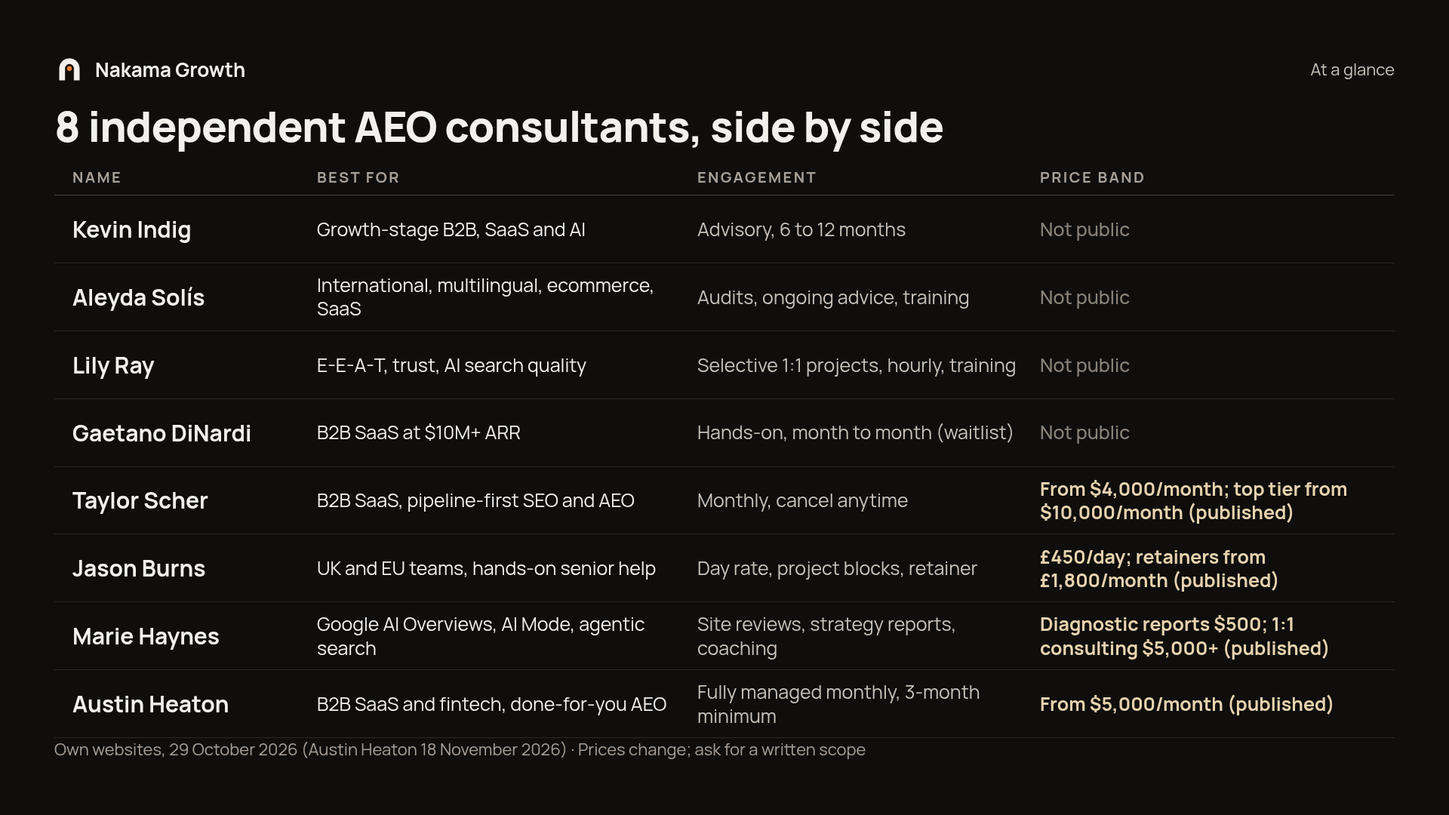
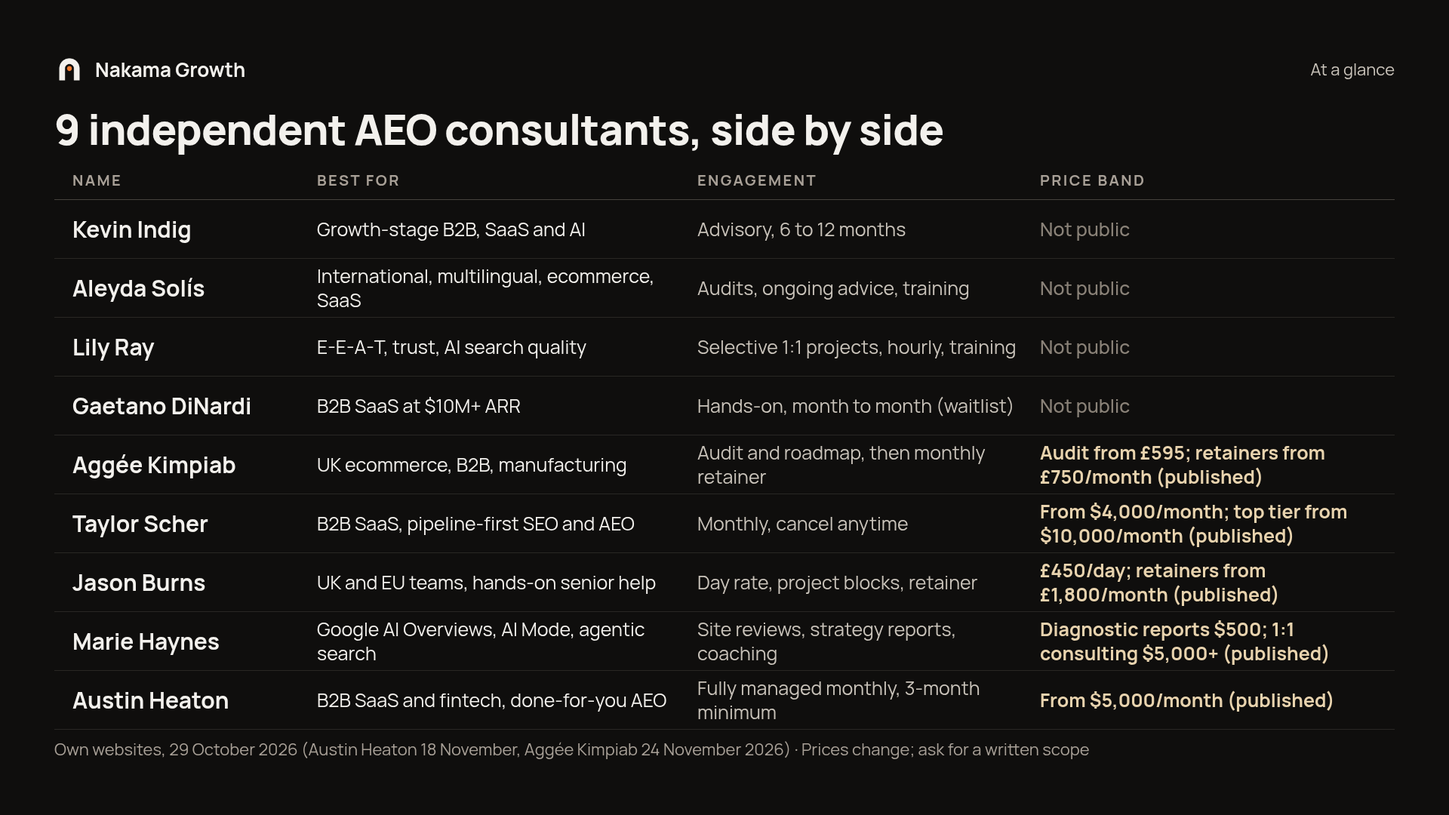
Preview: Aggée Kimpiab at #5 on /journal/best-aeo-consultants (#125)
* Add Aggée Kimpiab at #5 on best AEO consultants (preview)

* Journal: unordered AEO consultant list and Aggée source fix

Mark the best-aeo-consultants ItemList as unordered, note that the numbers are for navigation, and say Nakama Growth and the firm box are not listed as independent consultants. Replace Aggée Kimpiab's since-2019 claim and cite his DTC ecommerce SEO case study for the Lawton Tubes figures.

* Journal: point Aggée case-study links at the right pages

The Lawton Tubes 64% figure cites the manufacturing SEO case study. The outdoor brand results, including 12 ChatGPT orders, cite the DTC ecommerce case study.

* Journal: tighten Aggée Kimpiab's SEO experience line

Replace the retainer-client sentence in bodyHtml and sections with the shorter agency-side wording.

---------

diff --git a/app/journal/best-aeo-consultants.ts b/app/journal/best-aeo-consultants.ts
@@ -12,7 +12,7 @@ import type {Article} from './articles';
  */
 export const BEST_AEO_CONSULTANTS_PUBLISHED_AT = '2026-10-29T09:00:00+05:30';
 const PUBLISHED_AT = BEST_AEO_CONSULTANTS_PUBLISHED_AT;
-const MODIFIED_AT = '2026-11-18T19:40:00+05:30';
+const MODIFIED_AT = '2026-11-24T18:00:00+05:30';
 const PREVIEW = false;
 
 const MONTHS = ['Jan', 'Feb', 'Mar', 'Apr', 'May', 'Jun', 'Jul', 'Aug', 'Sep', 'Oct', 'Nov', 'Dec'];
@@ -60,8 +60,8 @@ const articleLd = {
    "@type": "ItemList",
    "@id": `${CANONICAL}#itemlist`,
    "name": TITLE,
-   "itemListOrder": "https://schema.org/ItemListOrderAscending",
-   "numberOfItems": 8,
+   "itemListOrder": "https://schema.org/ItemListUnordered",
+   "numberOfItems": 9,
    "isPartOf": {
     "@id": `${CANONICAL}#webpage`
    },
@@ -113,8 +113,19 @@ const articleLd = {
     {
      "@type": "ListItem",
      "position": 5,
+     "name": "Aggée Kimpiab",
+     "url": `${CANONICAL}#5-aggee-kimpiab-best-for-hands-on-seo-and-aeo-in-ecommerce-b2b-and-manufacturing`,
+     "item": {
+      "@type": "Person",
+      "name": "Aggée Kimpiab",
+      "url": "https://aggeewrites.com/"
+     }
+    },
+    {
+     "@type": "ListItem",
+     "position": 6,
      "name": "Taylor Scher",
-     "url": `${CANONICAL}#5-taylor-scher-best-for-transparent-saas-retainers`,
+     "url": `${CANONICAL}#6-taylor-scher-best-for-transparent-saas-retainers`,
      "item": {
       "@type": "Person",
       "name": "Taylor Scher",
@@ -123,9 +134,9 @@ const articleLd = {
     },
     {
      "@type": "ListItem",
-     "position": 6,
+     "position": 7,
      "name": "Jason Burns",
-     "url": `${CANONICAL}#6-jason-burns-best-for-hands-on-senior-help-at-a-day-rate`,
+     "url": `${CANONICAL}#7-jason-burns-best-for-hands-on-senior-help-at-a-day-rate`,
      "item": {
       "@type": "Person",
       "name": "Jason Burns",
@@ -134,9 +145,9 @@ const articleLd = {
     },
     {
      "@type": "ListItem",
-     "position": 7,
+     "position": 8,
      "name": "Marie Haynes",
-     "url": `${CANONICAL}#7-marie-haynes-best-for-google-ai-overviews-and-agentic-search`,
+     "url": `${CANONICAL}#8-marie-haynes-best-for-google-ai-overviews-and-agentic-search`,
      "item": {
       "@type": "Person",
       "name": "Marie Haynes",
@@ -145,9 +156,9 @@ const articleLd = {
     },
     {
      "@type": "ListItem",
-     "position": 8,
+     "position": 9,
      "name": "Austin Heaton",
-     "url": `${CANONICAL}#8-austin-heaton-best-for-done-for-you-aeo-in-b2b-saas-and-fintech`,
+     "url": `${CANONICAL}#9-austin-heaton-best-for-done-for-you-aeo-in-b2b-saas-and-fintech`,
      "item": {
       "@type": "Person",
       "name": "Austin Heaton",
@@ -263,7 +274,7 @@ const articleLd = {
      "name": "Who are the best AEO consultants in 2026?",
      "acceptedAnswer": {
       "@type": "Answer",
-      "text": "Our 2026 shortlist is Kevin Indig, Aleyda Solís, Lily Ray, Gaetano DiNardi, Taylor Scher, Jason Burns, Marie Haynes and Austin Heaton. See the comparison table in this guide for type, best fit, engagement and published pricing."
+      "text": "Our 2026 shortlist is Kevin Indig, Aleyda Solís, Lily Ray, Gaetano DiNardi, Aggée Kimpiab, Taylor Scher, Jason Burns, Marie Haynes and Austin Heaton. See the comparison table in this guide for type, best fit, engagement and published pricing."
      }
     },
     {
@@ -319,28 +330,29 @@ const bodyHtml = `<nav aria-label="Breadcrumb" class="article-breadcrumb"><ol st
 <p>By <a href="https://www.nakama.in/authors/yash-kumar" rel="author">Yash Kumar</a>, Co-founder and CEO, Nakama Growth</p>
 <figure><picture><source srcset="/journal/best-aeo-consultants/best-aeo-consultants-cover.webp" type="image/webp"><img src="/journal/best-aeo-consultants/best-aeo-consultants-cover.png" alt="${COVER_ALT}" width="1920" height="1080" fetchpriority="high" decoding="async"></picture></figure>
 <h2 id="quick-answer-who-are-the-best-aeo-consultants-in-2026">Quick answer: who are the best AEO consultants in 2026?</h2>
-<p>The best AEO consultants in 2026 are Kevin Indig (growth-stage B2B and AI companies), Aleyda Solís (international, ecommerce and SaaS), Lily Ray (trust, E-E-A-T and AI search quality), Gaetano DiNardi (B2B SaaS demand capture), Taylor Scher (transparent SaaS retainers), Jason Burns (hands-on UK day-rate work), Marie Haynes (Google AI Overviews and agentic search diagnostics) and Austin Heaton (done-for-you AEO for B2B SaaS and fintech).</p>
+<p>The best AEO consultants in 2026 are Kevin Indig (growth-stage B2B and AI companies), Aleyda Solís (international, ecommerce and SaaS), Lily Ray (trust, E-E-A-T and AI search quality), Gaetano DiNardi (B2B SaaS demand capture), Aggée Kimpiab (hands-on SEO and AEO for UK ecommerce, B2B and manufacturing), Taylor Scher (transparent SaaS retainers), Jason Burns (hands-on UK day-rate work), Marie Haynes (Google AI Overviews and agentic search diagnostics) and Austin Heaton (done-for-you AEO for B2B SaaS and fintech).</p>
 <p>An AEO consultant (answer engine optimization consultant) is a senior individual who diagnoses why AI answer engines do or do not mention and cite your brand, then gives your team a prioritised plan. An agency usually does the execution as well.</p>
 <p>Published independent rates in this guide start at £450 a day for hands-on work, $500 for a diagnostic report, and from $4,000 a month for a retainer.</p>
-<p><strong>How we picked:</strong> we checked each person's own website between 20 and 29 Oct 2026 (Austin Heaton on 18 Nov 2026), plus at least one independent source during research (not every source is linked in the entry). We kept only people with a public consulting, advisory or fractional offer. Founders who lead a firm are moved to a separate box and labelled &quot;Firm principal&quot;.</p>
-<p>Nakama Growth is an AEO agency; we are not ranked as an independent consultant in this list.</p>
-<nav class="toc" aria-labelledby="toc-h"><p class="toc-head" id="toc-h">On this page <span>14 sections</span></p><ol><li><a href="#quick-answer-who-are-the-best-aeo-consultants-in-2026">Quick answer: who are the best AEO consultants in 2026?</a></li><li><a href="#what-is-an-aeo-consultant">What is an AEO consultant?</a></li><li><a href="#how-do-the-best-aeo-consultants-compare">How do the best AEO consultants compare?</a></li><li><a href="#how-did-we-pick-these-aeo-consultants">How did we pick these AEO consultants?</a></li><li><a href="#the-8-best-independent-aeo-consultants-in-2026">The 8 best independent AEO consultants in 2026</a></li><li><a href="#what-does-an-aeo-consultant-actually-do">What does an AEO consultant actually do?</a></li><li><a href="#aeo-consultant-vs-agency-which-should-you-hire">AEO consultant vs agency: which should you hire?</a></li><li><a href="#when-does-a-firm-beat-an-independent-consultant">When does a firm beat an independent consultant?</a></li><li><a href="#how-much-do-aeo-consultants-cost-in-2026">How much do AEO consultants cost in 2026?</a></li><li><a href="#which-aeo-consultant-is-best-for-your-situation">Which AEO consultant is best for your situation?</a></li><li><a href="#how-do-you-vet-an-aeo-consultant">How do you vet an AEO consultant?</a></li><li><a href="#what-are-the-red-flags-when-hiring-an-aeo-consultant">What are the red flags when hiring an AEO consultant?</a></li><li><a href="#frequently-asked-questions">Frequently asked questions</a></li><li><a href="#final-take">Final take</a></li></ol></nav>
+<p><strong>How we picked:</strong> we checked each person's own website between 20 and 29 Oct 2026 (Austin Heaton on 18 Nov 2026, Aggée Kimpiab on 24 Nov 2026), plus at least one independent source during research (not every source is linked in the entry). We kept only people with a public consulting, advisory or fractional offer. Founders who lead a firm are moved to a separate box and labelled &quot;Firm principal&quot;.</p>
+<p>Nakama Growth is an AEO agency; we are not listed as an independent consultant in this list.</p>
+<nav class="toc" aria-labelledby="toc-h"><p class="toc-head" id="toc-h">On this page <span>14 sections</span></p><ol><li><a href="#quick-answer-who-are-the-best-aeo-consultants-in-2026">Quick answer: who are the best AEO consultants in 2026?</a></li><li><a href="#what-is-an-aeo-consultant">What is an AEO consultant?</a></li><li><a href="#how-do-the-best-aeo-consultants-compare">How do the best AEO consultants compare?</a></li><li><a href="#how-did-we-pick-these-aeo-consultants">How did we pick these AEO consultants?</a></li><li><a href="#the-9-best-independent-aeo-consultants-in-2026">The 9 best independent AEO consultants in 2026</a></li><li><a href="#what-does-an-aeo-consultant-actually-do">What does an AEO consultant actually do?</a></li><li><a href="#aeo-consultant-vs-agency-which-should-you-hire">AEO consultant vs agency: which should you hire?</a></li><li><a href="#when-does-a-firm-beat-an-independent-consultant">When does a firm beat an independent consultant?</a></li><li><a href="#how-much-do-aeo-consultants-cost-in-2026">How much do AEO consultants cost in 2026?</a></li><li><a href="#which-aeo-consultant-is-best-for-your-situation">Which AEO consultant is best for your situation?</a></li><li><a href="#how-do-you-vet-an-aeo-consultant">How do you vet an AEO consultant?</a></li><li><a href="#what-are-the-red-flags-when-hiring-an-aeo-consultant">What are the red flags when hiring an AEO consultant?</a></li><li><a href="#frequently-asked-questions">Frequently asked questions</a></li><li><a href="#final-take">Final take</a></li></ol></nav>
 <h2 id="what-is-an-aeo-consultant">What is an AEO consultant?</h2>
 <p>An AEO (answer engine optimization) consultant is a specialist who helps a brand get mentioned, recommended and cited in AI-generated answers from ChatGPT, Perplexity, Gemini, Claude and Google AI Overviews. They audit how engines describe you, find the sources those engines trust, and turn that into a roadmap your team or agency can ship.</p>
 <p>The key difference from an agency is ownership. A consultant owns the diagnosis and the plan. Your team usually owns the doing.</p>
 <p>Some consultants also call this work GEO (generative engine optimization), LLM SEO or AI search optimization, so you will see the same person described as a GEO consultant, a generative engine optimization consultant, an LLM SEO consultant or an AI visibility consultant. For buyers, the labels describe the same goal: being part of the answer.</p>
 <h2 id="how-do-the-best-aeo-consultants-compare">How do the best AEO consultants compare?</h2>
-<p>The eight best AEO consultants compare most clearly on specialty, engagement type and pricing transparency. Kevin Indig and Lily Ray suit advisory and trust work, Aleyda Solís suits international brands, Gaetano DiNardi suits B2B SaaS, and Austin Heaton suits B2B SaaS and fintech teams that want the work done for them. Taylor Scher, Jason Burns, Marie Haynes and Austin Heaton publish rates; the other four quote per scope after a scoping call.</p>
-<figure><picture><source srcset="/journal/best-aeo-consultants/best-aeo-consultants-compare.webp" type="image/webp"><img src="/journal/best-aeo-consultants/best-aeo-consultants-compare.png" alt="Table of 8 independent AEO consultants with best fit, engagement type and price band, from their own websites on 29 October and 18 November 2026" width="1920" height="1080" loading="lazy" decoding="async"></picture></figure>
-<div class="article-table"><table><thead><tr><th scope="col">Name</th><th scope="col">Type</th><th scope="col">Best for</th><th scope="col">Engagement</th><th scope="col">Notable proof</th><th scope="col">Price band</th></tr></thead><tbody><tr><td>Kevin Indig</td><td>Independent</td><td>Growth-stage B2B, SaaS and AI companies</td><td>Advisory, 6 to 12 months</td><td>Client testimonials from Ramp and Nextdoor on his advisory page</td><td>Not public</td></tr><tr><td>Aleyda Solís (Orainti)</td><td>Independent (boutique consultancy)</td><td>International, multilingual, ecommerce and SaaS</td><td>Audits, ongoing advice, training</td><td>Founded Orainti in 2014; runs LearningAIsearch.com</td><td>Not public</td></tr><tr><td>Lily Ray (Algorythmic)</td><td>Independent (also VP at Amsive)</td><td>E-E-A-T, trust, AI search quality</td><td>Selective 1:1 projects, hourly, training</td><td>Runs Algorythmic alongside her VP role at Amsive</td><td>Not public</td></tr><tr><td>Gaetano DiNardi (Marketing Advice)</td><td>Independent</td><td>B2B SaaS at $10M+ ARR</td><td>Hands-on, month to month (waitlist)</td><td>Clients include Cognism and Aura</td><td>Not public</td></tr><tr><td>Taylor Scher</td><td>Independent</td><td>B2B SaaS wanting pipeline-first SEO and AEO</td><td>Monthly, cancel anytime</td><td>Public SaaS case studies on his site</td><td>From $4,000/month; top tier from $10,000/month (published)</td></tr><tr><td>Jason Burns</td><td>Independent</td><td>UK and EU teams wanting hands-on senior help</td><td>Day rate, project blocks, retainer</td><td>Founded SEO Moves; past work with 3M, BlackRock, Unilever, E.ON</td><td>£450/day; retainers from £1,800/month (published)</td></tr><tr><td>Marie Haynes</td><td>Independent</td><td>Google AI Overviews, AI Mode, agentic search</td><td>Site reviews, strategy reports, coaching</td><td>Author of SEO in the Gemini Era</td><td>Diagnostic reports $500; 1:1 consulting $5,000+ (published)</td></tr><tr><td>Austin Heaton</td><td>Independent</td><td>B2B SaaS and fintech wanting done-for-you AEO</td><td>Fully managed monthly, 3-month minimum</td><td>Named case studies for Lumanu and Riseworks on his site</td><td>From $5,000/month (published)</td></tr></tbody></table></div>
+<p>The nine best AEO consultants compare most clearly on specialty, engagement type and pricing transparency. Kevin Indig and Lily Ray suit advisory and trust work, Aleyda Solís suits international brands, Gaetano DiNardi suits B2B SaaS, Aggée Kimpiab suits UK ecommerce, B2B and manufacturing brands, and Austin Heaton suits B2B SaaS and fintech teams that want the work done for them. Aggée Kimpiab, Taylor Scher, Jason Burns, Marie Haynes and Austin Heaton publish rates; the other four quote per scope after a scoping call.</p>
+<figure><picture><source srcset="/journal/best-aeo-consultants/best-aeo-consultants-compare.webp" type="image/webp"><img src="/journal/best-aeo-consultants/best-aeo-consultants-compare.png" alt="Table of 9 independent AEO consultants with best fit, engagement type and price band, from their own websites on 29 October, 18 November and 24 November 2026" width="1920" height="1080" loading="lazy" decoding="async"></picture></figure>
+<div class="article-table"><table><thead><tr><th scope="col">Name</th><th scope="col">Type</th><th scope="col">Best for</th><th scope="col">Engagement</th><th scope="col">Notable proof</th><th scope="col">Price band</th></tr></thead><tbody><tr><td>Kevin Indig</td><td>Independent</td><td>Growth-stage B2B, SaaS and AI companies</td><td>Advisory, 6 to 12 months</td><td>Client testimonials from Ramp and Nextdoor on his advisory page</td><td>Not public</td></tr><tr><td>Aleyda Solís (Orainti)</td><td>Independent (boutique consultancy)</td><td>International, multilingual, ecommerce and SaaS</td><td>Audits, ongoing advice, training</td><td>Founded Orainti in 2014; runs LearningAIsearch.com</td><td>Not public</td></tr><tr><td>Lily Ray (Algorythmic)</td><td>Independent (also VP at Amsive)</td><td>E-E-A-T, trust, AI search quality</td><td>Selective 1:1 projects, hourly, training</td><td>Runs Algorythmic alongside her VP role at Amsive</td><td>Not public</td></tr><tr><td>Gaetano DiNardi (Marketing Advice)</td><td>Independent</td><td>B2B SaaS at $10M+ ARR</td><td>Hands-on, month to month (waitlist)</td><td>Clients include Cognism and Aura</td><td>Not public</td></tr><tr><td>Aggée Kimpiab (Aggée Writes)</td><td>Independent</td><td>UK ecommerce, B2B and manufacturing</td><td>Audit and roadmap, then monthly retainer</td><td>Reports AI assistant orders up from 1 to 14 for an unnamed UK ecommerce client</td><td>Audit from £595; retainers from £750/month (published)</td></tr><tr><td>Taylor Scher</td><td>Independent</td><td>B2B SaaS wanting pipeline-first SEO and AEO</td><td>Monthly, cancel anytime</td><td>Public SaaS case studies on his site</td><td>From $4,000/month; top tier from $10,000/month (published)</td></tr><tr><td>Jason Burns</td><td>Independent</td><td>UK and EU teams wanting hands-on senior help</td><td>Day rate, project blocks, retainer</td><td>Founded SEO Moves; past work with 3M, BlackRock, Unilever, E.ON</td><td>£450/day; retainers from £1,800/month (published)</td></tr><tr><td>Marie Haynes</td><td>Independent</td><td>Google AI Overviews, AI Mode, agentic search</td><td>Site reviews, strategy reports, coaching</td><td>Author of SEO in the Gemini Era</td><td>Diagnostic reports $500; 1:1 consulting $5,000+ (published)</td></tr><tr><td>Austin Heaton</td><td>Independent</td><td>B2B SaaS and fintech wanting done-for-you AEO</td><td>Fully managed monthly, 3-month minimum</td><td>Named case studies for Lumanu and Riseworks on his site</td><td>From $5,000/month (published)</td></tr></tbody></table></div>
 <h2 id="how-did-we-pick-these-aeo-consultants">How did we pick these AEO consultants?</h2>
 <p>We picked these AEO consultants with one Required gate, a live public consulting offer, plus five weighted criteria: published AI search work, named proof, hands-on access, pricing transparency and fit for tech buyers. Each criterion maps to a question a buyer actually asks before hiring a consultant.</p>
 <figure><picture><source srcset="/journal/best-aeo-consultants/best-aeo-consultants-criteria.webp" type="image/webp"><img src="/journal/best-aeo-consultants/best-aeo-consultants-criteria.png" alt="How we picked them: a required public consulting offer, then five weighted criteria: published AI search work 30%, named proof 25%, hands-on access 20%, pricing transparency 15%, fit for tech, SaaS and AI buyers 10%" width="1920" height="1080" loading="lazy" decoding="async"></picture></figure>
 <div class="article-table"><table><thead><tr><th scope="col">Criterion</th><th scope="col">Weight</th><th scope="col">What we looked for</th></tr></thead><tbody><tr><td>Public consulting offer</td><td>Required</td><td>A live page that sells consulting, advisory or fractional work</td></tr><tr><td>Published AI search work</td><td>30%</td><td>Original research, frameworks or talks on AI answers, not just classic SEO</td></tr><tr><td>Named proof</td><td>25%</td><td>Named clients, testimonials or public case studies</td></tr><tr><td>Hands-on access</td><td>20%</td><td>You work with the named person, not a junior team</td></tr><tr><td>Pricing transparency</td><td>15%</td><td>Published rates or clear engagement shape</td></tr><tr><td>Fit for tech, SaaS and AI buyers</td><td>10%</td><td>Evidence of software or AI company work</td></tr></tbody></table></div>
 <p>We dropped anyone we could not verify on their own site plus one independent source. We also moved firm founders out of the independent list, even when they are excellent, so the word &quot;independent&quot; stays honest.</p>
 <p>Limits: we did not hire these consultants. Prices change, and anything we could not confirm on the seller's own site is marked &quot;not public&quot; or left out.</p>
-<h2 id="the-8-best-independent-aeo-consultants-in-2026">The 8 best independent AEO consultants in 2026</h2>
-<p>Each AEO consultant below passed the public-offer gate and is listed with best fit, proof we could verify on 29 October 2026 (18 November 2026 for Austin Heaton), and pricing where published.</p>
+<h2 id="the-9-best-independent-aeo-consultants-in-2026">The 9 best independent AEO consultants in 2026</h2>
+<p>Listed in no particular order; the numbers are for navigation.</p>
+<p>Each AEO consultant below passed the public-offer gate and is listed with best fit, proof we could verify on 29 October 2026 (18 November 2026 for Austin Heaton, 24 November 2026 for Aggée Kimpiab), and pricing where published.</p>
 <h3 id="1-kevin-indig-best-for-growth-stage-b2b-and-ai-companies">1. Kevin Indig: best for growth-stage B2B and AI companies</h3>
 <p>Kevin Indig is an independent organic growth advisor who writes a weekly research newsletter on search and AI visibility.</p>
 <p>His SEO/AEO advisory covers AI visibility strategy, technical accessibility, content systems, authority building through first-party research, and measurement across search and AI visibility.</p>
@@ -370,28 +382,37 @@ const bodyHtml = `<nav aria-label="Breadcrumb" class="article-breadcrumb"><ol st
 <p><strong>Weakness:</strong> he runs a waitlist, and his practice spans SEO and Google Ads, so pure AEO research depth may be lighter than research-led specialists.</p>
 <p><strong>Price:</strong> not public.</p>
 <p><strong>Source:</strong> <a href="https://marketingadvice.io/about-me/">marketingadvice.io</a></p>
-<h3 id="5-taylor-scher-best-for-transparent-saas-retainers">5. Taylor Scher: best for transparent SaaS retainers</h3>
+<h3 id="5-aggee-kimpiab-best-for-hands-on-seo-and-aeo-in-ecommerce-b2b-and-manufacturing">5. Aggée Kimpiab: best for hands-on SEO and AEO in ecommerce, B2B and manufacturing</h3>
+<p>Aggée Kimpiab is an independent SEO and AEO consultant based in the UK, working under the name Aggée Writes. He says he has 6+ years in SEO, including agency-side work for 12 retainer clients.</p>
+<p>He does the audits, technical fixes, on-page work and content himself, with no agency layer. His AI search work makes sure the pages that already earn search traffic are also the ones AI assistants find and cite.</p>
+<p>He reports results for an unnamed UK outdoor ecommerce brand, January to November 2026 against the same period in 2025: organic search revenue up 28.6%, orders up 39.3%, and sales from Bing-powered search (Bing and Yahoo) up 130%. AI assistants grew from 1 order to 14, with 12 from ChatGPT (<a href="https://aggeewrites.com/dtc-ecommerce-seo-case-study/">case study</a>).</p>
+<p>His site also publishes a named manufacturing case: Lawton Tubes, organic users up 64% year on year, in <a href="https://aggeewrites.com/manufacturing-seo-case-study/">his manufacturing SEO case study</a>.</p>
+<p><strong>Best for:</strong> UK ecommerce, B2B and manufacturing brands that want senior, hands-on SEO and AI search work from one person.</p>
+<p><strong>Weakness:</strong> one person means limited capacity, and his pricing is in pounds for a UK-based practice. The AI search result he shares is for an unnamed client, so ask for a reference before you sign.</p>
+<p><strong>Price (published, &quot;from&quot;):</strong> SEO Audit &amp; Roadmap from £595 one-off, SEO Retainer from £750/month, and Growth SEO Retainer from £1,600/month.</p>
+<p><strong>Source:</strong> <a href="https://aggeewrites.com/">aggeewrites.com</a></p>
+<h3 id="6-taylor-scher-best-for-transparent-saas-retainers">6. Taylor Scher: best for transparent SaaS retainers</h3>
 <p>Taylor Scher runs Taylor Scher Consulting, focused on B2B SaaS SEO and AEO. He is one of the few consultants in this list who publishes his full price ladder.</p>
 <p>Engagements run month to month and can be cancelled anytime. Scope is adjusted after an initial audit.</p>
 <p><strong>Best for:</strong> seed to Series B SaaS companies that want pipeline-first SEO plus AEO at a known monthly cost.</p>
 <p><strong>Weakness:</strong> the higher tiers bundle classic SEO, content and link building, so check how much of the retainer is AI answer work specifically.</p>
 <p><strong>Price (published, &quot;starting from&quot;):</strong> from $4,000/month for strategy, from $5,500/month for done-for-you content, from $7,500/month for fractional SEO, and from $10,000/month for fractional SEO plus link building.</p>
 <p><strong>Source:</strong> <a href="https://www.taylorscherseo.com/services-pricing">taylorscherseo.com/services-pricing</a></p>
-<h3 id="6-jason-burns-best-for-hands-on-senior-help-at-a-day-rate">6. Jason Burns: best for hands-on senior help at a day rate</h3>
+<h3 id="7-jason-burns-best-for-hands-on-senior-help-at-a-day-rate">7. Jason Burns: best for hands-on senior help at a day rate</h3>
 <p>Jason Burns is an independent UK consultant who has worked in search since 2007 and founded the agency SEO Moves. He covers SEO, GEO and practical AI workflow builds.</p>
 <p>He works either embedded in your team or as an outside contractor on fixed-output projects. Past clients named on his site include 3M, BlackRock, Unilever and E.ON.</p>
 <p><strong>Best for:</strong> UK and European teams that want a senior pair of hands for audits, migrations and AI search fixes without an agency layer.</p>
 <p><strong>Weakness:</strong> one person means limited capacity, and his client proof is mostly classic SEO rather than published AI citation case studies.</p>
 <p><strong>Price (published):</strong> £450/day, £225 half day, multi-day projects and monthly retainers from £1,800.</p>
 <p><strong>Source:</strong> <a href="https://jasonburns.co.uk">jasonburns.co.uk</a></p>
-<h3 id="7-marie-haynes-best-for-google-ai-overviews-and-agentic-search">7. Marie Haynes: best for Google AI Overviews and agentic search</h3>
+<h3 id="8-marie-haynes-best-for-google-ai-overviews-and-agentic-search">8. Marie Haynes: best for Google AI Overviews and agentic search</h3>
 <p>Dr. Marie Haynes has 16+ years of experience with Google's algorithms and wrote SEO in the Gemini Era. She focuses on AI Overviews, AI Mode and preparing for agentic search.</p>
 <p>Her products are mostly diagnostic: $500 reports built from your Search Console and analytics data (traffic drop, post-update, spam recovery, helpfulness and AI search reviews), plus 1:1 consulting for a small client list.</p>
 <p><strong>Best for:</strong> sites that depend on Google and want to understand how AI features change their traffic.</p>
 <p><strong>Weakness:</strong> she is openly sceptical of chasing LLM mentions outside Google, and her site notes the $500 price may rise or orders may pause if demand grows, so confirm availability when you book. None of the work is done for you.</p>
 <p><strong>Price (published):</strong> diagnostic reports $500; 1:1 consulting $5,000+.</p>
 <p><strong>Source:</strong> <a href="https://www.mariehaynes.com/">mariehaynes.com</a></p>
-<h3 id="8-austin-heaton-best-for-done-for-you-aeo-in-b2b-saas-and-fintech">8. Austin Heaton: best for done-for-you AEO in B2B SaaS and fintech</h3>
+<h3 id="9-austin-heaton-best-for-done-for-you-aeo-in-b2b-saas-and-fintech">9. Austin Heaton: best for done-for-you AEO in B2B SaaS and fintech</h3>
 <p>Austin Heaton is an independent AEO consultant with 12+ years in search, working mainly with B2B SaaS, fintech, payments, crypto and AI companies. He is a strong fit for B2B SaaS and fintech teams looking for the <a href="https://www.austinheaton.com/">best AI search consultant</a> in their niche. He was previously Head of Content at Rise.</p>
 <p>He maps which brands AI engines recommend for your buyer prompts, then builds answer-first comparison and use-case pages, off-site mentions and links, and tracks citations in ChatGPT, Perplexity, Gemini, Claude and Google AI Overviews. His site reports named results, including 656 AI-sourced clicks and 101 conversions in 60 days for Lumanu, and 575% growth in ChatGPT sessions over 12 months for Riseworks.</p>
 <p><strong>Best for:</strong> B2B SaaS and fintech teams without in-house capacity that want one senior person to run the work, not only advise.</p>
@@ -415,7 +436,7 @@ const bodyHtml = `<nav aria-label="Breadcrumb" class="article-breadcrumb"><ol st
 <p>A firm beats an independent consultant when the bottleneck is capacity, not knowledge. If you already know what to fix but nobody has time to rewrite 50 pages, earn mentions on third-party sites and track prompts every month, a team will usually move faster.</p>
 <p>Three signals point to a firm:</p>
 <ul><li>You need ongoing off-site work such as digital PR, community and review site coverage.</li><li>You need monthly prompt tracking and reporting across several engines.</li><li>You have no in-house writer, developer or SEO to own the roadmap.</li></ul>
-<h3 id="firms-you-might-also-hire-not-ranked-as-independent-consultants">Firms you might also hire (not ranked as independent consultants)</h3>
+<h3 id="firms-you-might-also-hire-not-ranked-as-independent-consultants">Firms you might also hire (not listed as independent consultants)</h3>
 <p>These are well-known leaders who run firms. They are labelled &quot;Firm principal&quot; because you are hiring a company, not one person.</p>
 <div class="article-table"><table><thead><tr><th scope="col">Name</th><th scope="col">Type</th><th scope="col">Best for</th><th scope="col">Engagement</th><th scope="col">Notable proof</th><th scope="col">Price band</th></tr></thead><tbody><tr><td>Mike King (iPullRank)</td><td>Firm principal</td><td>Enterprise, research-grade technical AEO</td><td>Agency retainer</td><td>Author of the AI Search Manual; &quot;Relevance Engineering&quot; framework</td><td>Published engagement ranges: $30K to $150K, $150K to $500K, $500K+ (not monthly)</td></tr><tr><td>Dan Petrovic (DEJAN)</td><td>Firm principal</td><td>Teams wanting experiment-led AI visibility</td><td>Audits and retainers</td><td>Published model-perception research</td><td>From AUD 5,000 (audit or monthly) per DEJAN</td></tr><tr><td>Evan Bailyn (First Page Sage)</td><td>Firm principal</td><td>Healthcare, finance, professional services</td><td>Agency team</td><td>Long-running GEO service and published rankings</td><td>Not public</td></tr><tr><td>Ross Simmonds (Foundation)</td><td>Firm principal</td><td>Content distribution for B2B brands</td><td>Agency retainer</td><td>Distribution-first content methodology</td><td>Not public</td></tr><tr><td>Olaf Kopp (Aufgesang)</td><td>Firm principal</td><td>German-speaking markets, LLM readability</td><td>Agency services</td><td>Developed the LLM-Readability concept</td><td>Not public</td></tr><tr><td>Brendan Hufford (Growth Sprints)</td><td>Firm principal</td><td>SaaS at $10M to $100M ARR</td><td>90-day sprints</td><td>Brendan works on client accounts directly</td><td>Not public</td></tr><tr><td>Nakama Growth</td><td>Agency</td><td>SaaS, tech and AI brands, India and global</td><td>Retainer</td><td>Process: prompt baseline, citation gaps, answer-first content</td><td>See <a href="https://www.nakama.in/pricing">/pricing</a></td></tr></tbody></table></div>
 <p>If you want a team to run the work end to end, see <a href="https://www.nakama.in/services/aeo">Nakama Growth's AEO services</a>. We do not promise placements in any AI engine.</p>
@@ -431,6 +452,7 @@ const bodyHtml = `<nav aria-label="Breadcrumb" class="article-breadcrumb"><ol st
 <p><strong>International and ecommerce:</strong> Aleyda Solís for multi-market and multilingual programmes.</p>
 <p><strong>Trust-sensitive categories:</strong> Lily Ray for E-E-A-T and content quality.</p>
 <p><strong>Google-dependent sites:</strong> Marie Haynes for AI Overviews and AI Mode diagnostics.</p>
+<p><strong>UK ecommerce, B2B or manufacturing:</strong> Aggée Kimpiab for hands-on SEO and AEO from one person who does the work himself.</p>
 <p><strong>Small budget, UK or EU:</strong> Jason Burns for day-rate audits.</p>
 <p><strong>India and APAC:</strong> few independent AEO consultants publish verifiable proof yet. Ask any local candidate for before-and-after prompt screenshots and named references. If you would rather hire a team, see our guide to the <a href="https://www.nakama.in/journal/best-aeo-agencies-india">best AEO agencies in India</a>.</p>
 <h2 id="how-do-you-vet-an-aeo-consultant">How do you vet an AEO consultant?</h2>
@@ -450,7 +472,7 @@ const bodyHtml = `<nav aria-label="Breadcrumb" class="article-breadcrumb"><ol st
 <h3 id="how-do-i-choose-an-aeo-consultant">How do I choose an AEO consultant?</h3>
 <p>Before you hire an AEO consultant, check three things: a clear measurement method (prompts, engines, runs), named proof from similar companies, and direct access to the person you are hiring. Match their specialty to your stage and market using the shortlist above.</p>
 <h3 id="who-are-the-best-aeo-consultants-in-2026">Who are the best AEO consultants in 2026?</h3>
-<p>Our 2026 shortlist is Kevin Indig, Aleyda Solís, Lily Ray, Gaetano DiNardi, Taylor Scher, Jason Burns, Marie Haynes and Austin Heaton. See the comparison table in this guide for type, best fit, engagement and published pricing.</p>
+<p>Our 2026 shortlist is Kevin Indig, Aleyda Solís, Lily Ray, Gaetano DiNardi, Aggée Kimpiab, Taylor Scher, Jason Burns, Marie Haynes and Austin Heaton. See the comparison table in this guide for type, best fit, engagement and published pricing.</p>
 <h3 id="is-aeo-different-from-geo">Is AEO different from GEO?</h3>
 <p>The terms overlap. AEO usually means optimizing to be the answer in AI and search answer features. GEO usually means optimizing for generative engines like ChatGPT and Gemini. Most consultants in this guide do both, so a GEO consultant and an AEO consultant are usually offering the same core service under different names.</p>
 <h3 id="do-i-need-seo-before-aeo">Do I need SEO before AEO?</h3>
@@ -506,11 +528,11 @@ export const bestAeoConsultantsArticle: Article = {
  {
  "heading": "Quick answer: who are the best AEO consultants in 2026?",
  "paragraphs": [
-  "The best AEO consultants in 2026 are Kevin Indig (growth-stage B2B and AI companies), Aleyda Solís (international, ecommerce and SaaS), Lily Ray (trust, E-E-A-T and AI search quality), Gaetano DiNardi (B2B SaaS demand capture), Taylor Scher (transparent SaaS retainers), Jason Burns (hands-on UK day-rate work), Marie Haynes (Google AI Overviews and agentic search diagnostics) and Austin Heaton (done-for-you AEO for B2B SaaS and fintech).",
+  "The best AEO consultants in 2026 are Kevin Indig (growth-stage B2B and AI companies), Aleyda Solís (international, ecommerce and SaaS), Lily Ray (trust, E-E-A-T and AI search quality), Gaetano DiNardi (B2B SaaS demand capture), Aggée Kimpiab (hands-on SEO and AEO for UK ecommerce, B2B and manufacturing), Taylor Scher (transparent SaaS retainers), Jason Burns (hands-on UK day-rate work), Marie Haynes (Google AI Overviews and agentic search diagnostics) and Austin Heaton (done-for-you AEO for B2B SaaS and fintech).",
   "An AEO consultant (answer engine optimization consultant) is a senior individual who diagnoses why AI answer engines do or do not mention and cite your brand, then gives your team a prioritised plan. An agency usually does the execution as well.",
   "Published independent rates in this guide start at £450 a day for hands-on work, $500 for a diagnostic report, and from $4,000 a month for a retainer.",
-  "How we picked: we checked each person's own website between 20 and 29 Oct 2026 (Austin Heaton on 18 Nov 2026), plus at least one independent source during research (not every source is linked in the entry). We kept only people with a public consulting, advisory or fractional offer. Founders who lead a firm are moved to a separate box and labelled \"Firm principal\".",
-  "Nakama Growth is an AEO agency; we are not ranked as an independent consultant in this list."
+  "How we picked: we checked each person's own website between 20 and 29 Oct 2026 (Austin Heaton on 18 Nov 2026, Aggée Kimpiab on 24 Nov 2026), plus at least one independent source during research (not every source is linked in the entry). We kept only people with a public consulting, advisory or fractional offer. Founders who lead a firm are moved to a separate box and labelled \"Firm principal\".",
+  "Nakama Growth is an AEO agency; we are not listed as an independent consultant in this list."
  ]
 },
  {
@@ -524,12 +546,13 @@ export const bestAeoConsultantsArticle: Article = {
  {
  "heading": "How do the best AEO consultants compare?",
  "paragraphs": [
-  "The eight best AEO consultants compare most clearly on specialty, engagement type and pricing transparency. Kevin Indig and Lily Ray suit advisory and trust work, Aleyda Solís suits international brands, Gaetano DiNardi suits B2B SaaS, and Austin Heaton suits B2B SaaS and fintech teams that want the work done for them. Taylor Scher, Jason Burns, Marie Haynes and Austin Heaton publish rates; the other four quote per scope after a scoping call.",
+  "The nine best AEO consultants compare most clearly on specialty, engagement type and pricing transparency. Kevin Indig and Lily Ray suit advisory and trust work, Aleyda Solís suits international brands, Gaetano DiNardi suits B2B SaaS, Aggée Kimpiab suits UK ecommerce, B2B and manufacturing brands, and Austin Heaton suits B2B SaaS and fintech teams that want the work done for them. Aggée Kimpiab, Taylor Scher, Jason Burns, Marie Haynes and Austin Heaton publish rates; the other four quote per scope after a scoping call.",
   "Name | Type | Best for | Engagement | Notable proof | Price band",
   "Kevin Indig | Independent | Growth-stage B2B, SaaS and AI companies | Advisory, 6 to 12 months | Client testimonials from Ramp and Nextdoor on his advisory page | Not public",
   "Aleyda Solís (Orainti) | Independent (boutique consultancy) | International, multilingual, ecommerce and SaaS | Audits, ongoing advice, training | Founded Orainti in 2014; runs LearningAIsearch.com | Not public",
   "Lily Ray (Algorythmic) | Independent (also VP at Amsive) | E-E-A-T, trust, AI search quality | Selective 1:1 projects, hourly, training | Runs Algorythmic alongside her VP role at Amsive | Not public",
   "Gaetano DiNardi (Marketing Advice) | Independent | B2B SaaS at $10M+ ARR | Hands-on, month to month (waitlist) | Clients include Cognism and Aura | Not public",
+  "Aggée Kimpiab (Aggée Writes) | Independent | UK ecommerce, B2B and manufacturing | Audit and roadmap, then monthly retainer | Reports AI assistant orders up from 1 to 14 for an unnamed UK ecommerce client | Audit from £595; retainers from £750/month (published)",
   "Taylor Scher | Independent | B2B SaaS wanting pipeline-first SEO and AEO | Monthly, cancel anytime | Public SaaS case studies on his site | From $4,000/month; top tier from $10,000/month (published)",
   "Jason Burns | Independent | UK and EU teams wanting hands-on senior help | Day rate, project blocks, retainer | Founded SEO Moves; past work with 3M, BlackRock, Unilever, E.ON | £450/day; retainers from £1,800/month (published)",
   "Marie Haynes | Independent | Google AI Overviews, AI Mode, agentic search | Site reviews, strategy reports, coaching | Author of SEO in the Gemini Era | Diagnostic reports $500; 1:1 consulting $5,000+ (published)",
@@ -552,9 +575,10 @@ export const bestAeoConsultantsArticle: Article = {
  ]
 },
  {
- "heading": "The 8 best independent AEO consultants in 2026",
+ "heading": "The 9 best independent AEO consultants in 2026",
  "paragraphs": [
-  "Each AEO consultant below passed the public-offer gate and is listed with best fit, proof we could verify on 29 October 2026 (18 November 2026 for Austin Heaton), and pricing where published."
+  "Listed in no particular order; the numbers are for navigation.",
+  "Each AEO consultant below passed the public-offer gate and is listed with best fit, proof we could verify on 29 October 2026 (18 November 2026 for Austin Heaton, 24 November 2026 for Aggée Kimpiab), and pricing where published."
  ]
 },
  {
@@ -603,7 +627,20 @@ export const bestAeoConsultantsArticle: Article = {
  ]
 },
  {
- "heading": "5. Taylor Scher: best for transparent SaaS retainers",
+ "heading": "5. Aggée Kimpiab: best for hands-on SEO and AEO in ecommerce, B2B and manufacturing",
+ "paragraphs": [
+  "Aggée Kimpiab is an independent SEO and AEO consultant based in the UK, working under the name Aggée Writes. He says he has 6+ years in SEO, including agency-side work for 12 retainer clients.",
+  "He does the audits, technical fixes, on-page work and content himself, with no agency layer. His AI search work makes sure the pages that already earn search traffic are also the ones AI assistants find and cite.",
+  "He reports results for an unnamed UK outdoor ecommerce brand, January to November 2026 against the same period in 2025: organic search revenue up 28.6%, orders up 39.3%, and sales from Bing-powered search (Bing and Yahoo) up 130%. AI assistants grew from 1 order to 14, with 12 from ChatGPT (case study).",
+  "His site also publishes a named manufacturing case: Lawton Tubes, organic users up 64% year on year, in his manufacturing SEO case study.",
+  "Best for: UK ecommerce, B2B and manufacturing brands that want senior, hands-on SEO and AI search work from one person.",
+  "Weakness: one person means limited capacity, and his pricing is in pounds for a UK-based practice. The AI search result he shares is for an unnamed client, so ask for a reference before you sign.",
+  "Price (published, \"from\"): SEO Audit & Roadmap from £595 one-off, SEO Retainer from £750/month, and Growth SEO Retainer from £1,600/month.",
+  "Source: aggeewrites.com"
+ ]
+},
+ {
+ "heading": "6. Taylor Scher: best for transparent SaaS retainers",
  "paragraphs": [
   "Taylor Scher runs Taylor Scher Consulting, focused on B2B SaaS SEO and AEO. He is one of the few consultants in this list who publishes his full price ladder.",
   "Engagements run month to month and can be cancelled anytime. Scope is adjusted after an initial audit.",
@@ -614,7 +651,7 @@ export const bestAeoConsultantsArticle: Article = {
  ]
 },
  {
- "heading": "6. Jason Burns: best for hands-on senior help at a day rate",
+ "heading": "7. Jason Burns: best for hands-on senior help at a day rate",
  "paragraphs": [
   "Jason Burns is an independent UK consultant who has worked in search since 2007 and founded the agency SEO Moves. He covers SEO, GEO and practical AI workflow builds.",
   "He works either embedded in your team or as an outside contractor on fixed-output projects. Past clients named on his site include 3M, BlackRock, Unilever and E.ON.",
@@ -625,7 +662,7 @@ export const bestAeoConsultantsArticle: Article = {
  ]
 },
  {
- "heading": "7. Marie Haynes: best for Google AI Overviews and agentic search",
+ "heading": "8. Marie Haynes: best for Google AI Overviews and agentic search",
  "paragraphs": [
   "Dr. Marie Haynes has 16+ years of experience with Google's algorithms and wrote SEO in the Gemini Era. She focuses on AI Overviews, AI Mode and preparing for agentic search.",
   "Her products are mostly diagnostic: $500 reports built from your Search Console and analytics data (traffic drop, post-update, spam recovery, helpfulness and AI search reviews), plus 1:1 consulting for a small client list.",
@@ -636,7 +673,7 @@ export const bestAeoConsultantsArticle: Article = {
  ]
 },
  {
- "heading": "8. Austin Heaton: best for done-for-you AEO in B2B SaaS and fintech",
+ "heading": "9. Austin Heaton: best for done-for-you AEO in B2B SaaS and fintech",
  "paragraphs": [
   "Austin Heaton is an independent AEO consultant with 12+ years in search, working mainly with B2B SaaS, fintech, payments, crypto and AI companies. He is a strong fit for B2B SaaS and fintech teams looking for the best AI search consultant in their niche. He was previously Head of Content at Rise.",
   "He maps which brands AI engines recommend for your buyer prompts, then builds answer-first comparison and use-case pages, off-site mentions and links, and tracks citations in ChatGPT, Perplexity, Gemini, Claude and Google AI Overviews. His site reports named results, including 656 AI-sourced clicks and 101 conversions in 60 days for Lumanu, and 575% growth in ChatGPT sessions over 12 months for Riseworks.",
@@ -685,7 +722,7 @@ export const bestAeoConsultantsArticle: Article = {
  ]
 },
  {
- "heading": "Firms you might also hire (not ranked as independent consultants)",
+ "heading": "Firms you might also hire (not listed as independent consultants)",
  "paragraphs": [
   "These are well-known leaders who run firms. They are labelled \"Firm principal\" because you are hiring a company, not one person.",
   "Name | Type | Best for | Engagement | Notable proof | Price band",
@@ -724,6 +761,7 @@ export const bestAeoConsultantsArticle: Article = {
   "International and ecommerce: Aleyda Solís for multi-market and multilingual programmes.",
   "Trust-sensitive categories: Lily Ray for E-E-A-T and content quality.",
   "Google-dependent sites: Marie Haynes for AI Overviews and AI Mode diagnostics.",
+  "UK ecommerce, B2B or manufacturing: Aggée Kimpiab for hands-on SEO and AEO from one person who does the work himself.",
   "Small budget, UK or EU: Jason Burns for day-rate audits.",
   "India and APAC: few independent AEO consultants publish verifiable proof yet. Ask any local candidate for before-and-after prompt screenshots and named references. If you would rather hire a team, see our guide to the best AEO agencies in India."
  ]
@@ -787,7 +825,7 @@ export const bestAeoConsultantsArticle: Article = {
  {
  "heading": "Who are the best AEO consultants in 2026?",
  "paragraphs": [
-  "Our 2026 shortlist is Kevin Indig, Aleyda Solís, Lily Ray, Gaetano DiNardi, Taylor Scher, Jason Burns, Marie Haynes and Austin Heaton. See the comparison table in this guide for type, best fit, engagement and published pricing."
+  "Our 2026 shortlist is Kevin Indig, Aleyda Solís, Lily Ray, Gaetano DiNardi, Aggée Kimpiab, Taylor Scher, Jason Burns, Marie Haynes and Austin Heaton. See the comparison table in this guide for type, best fit, engagement and published pricing."
  ]
 },
  {
